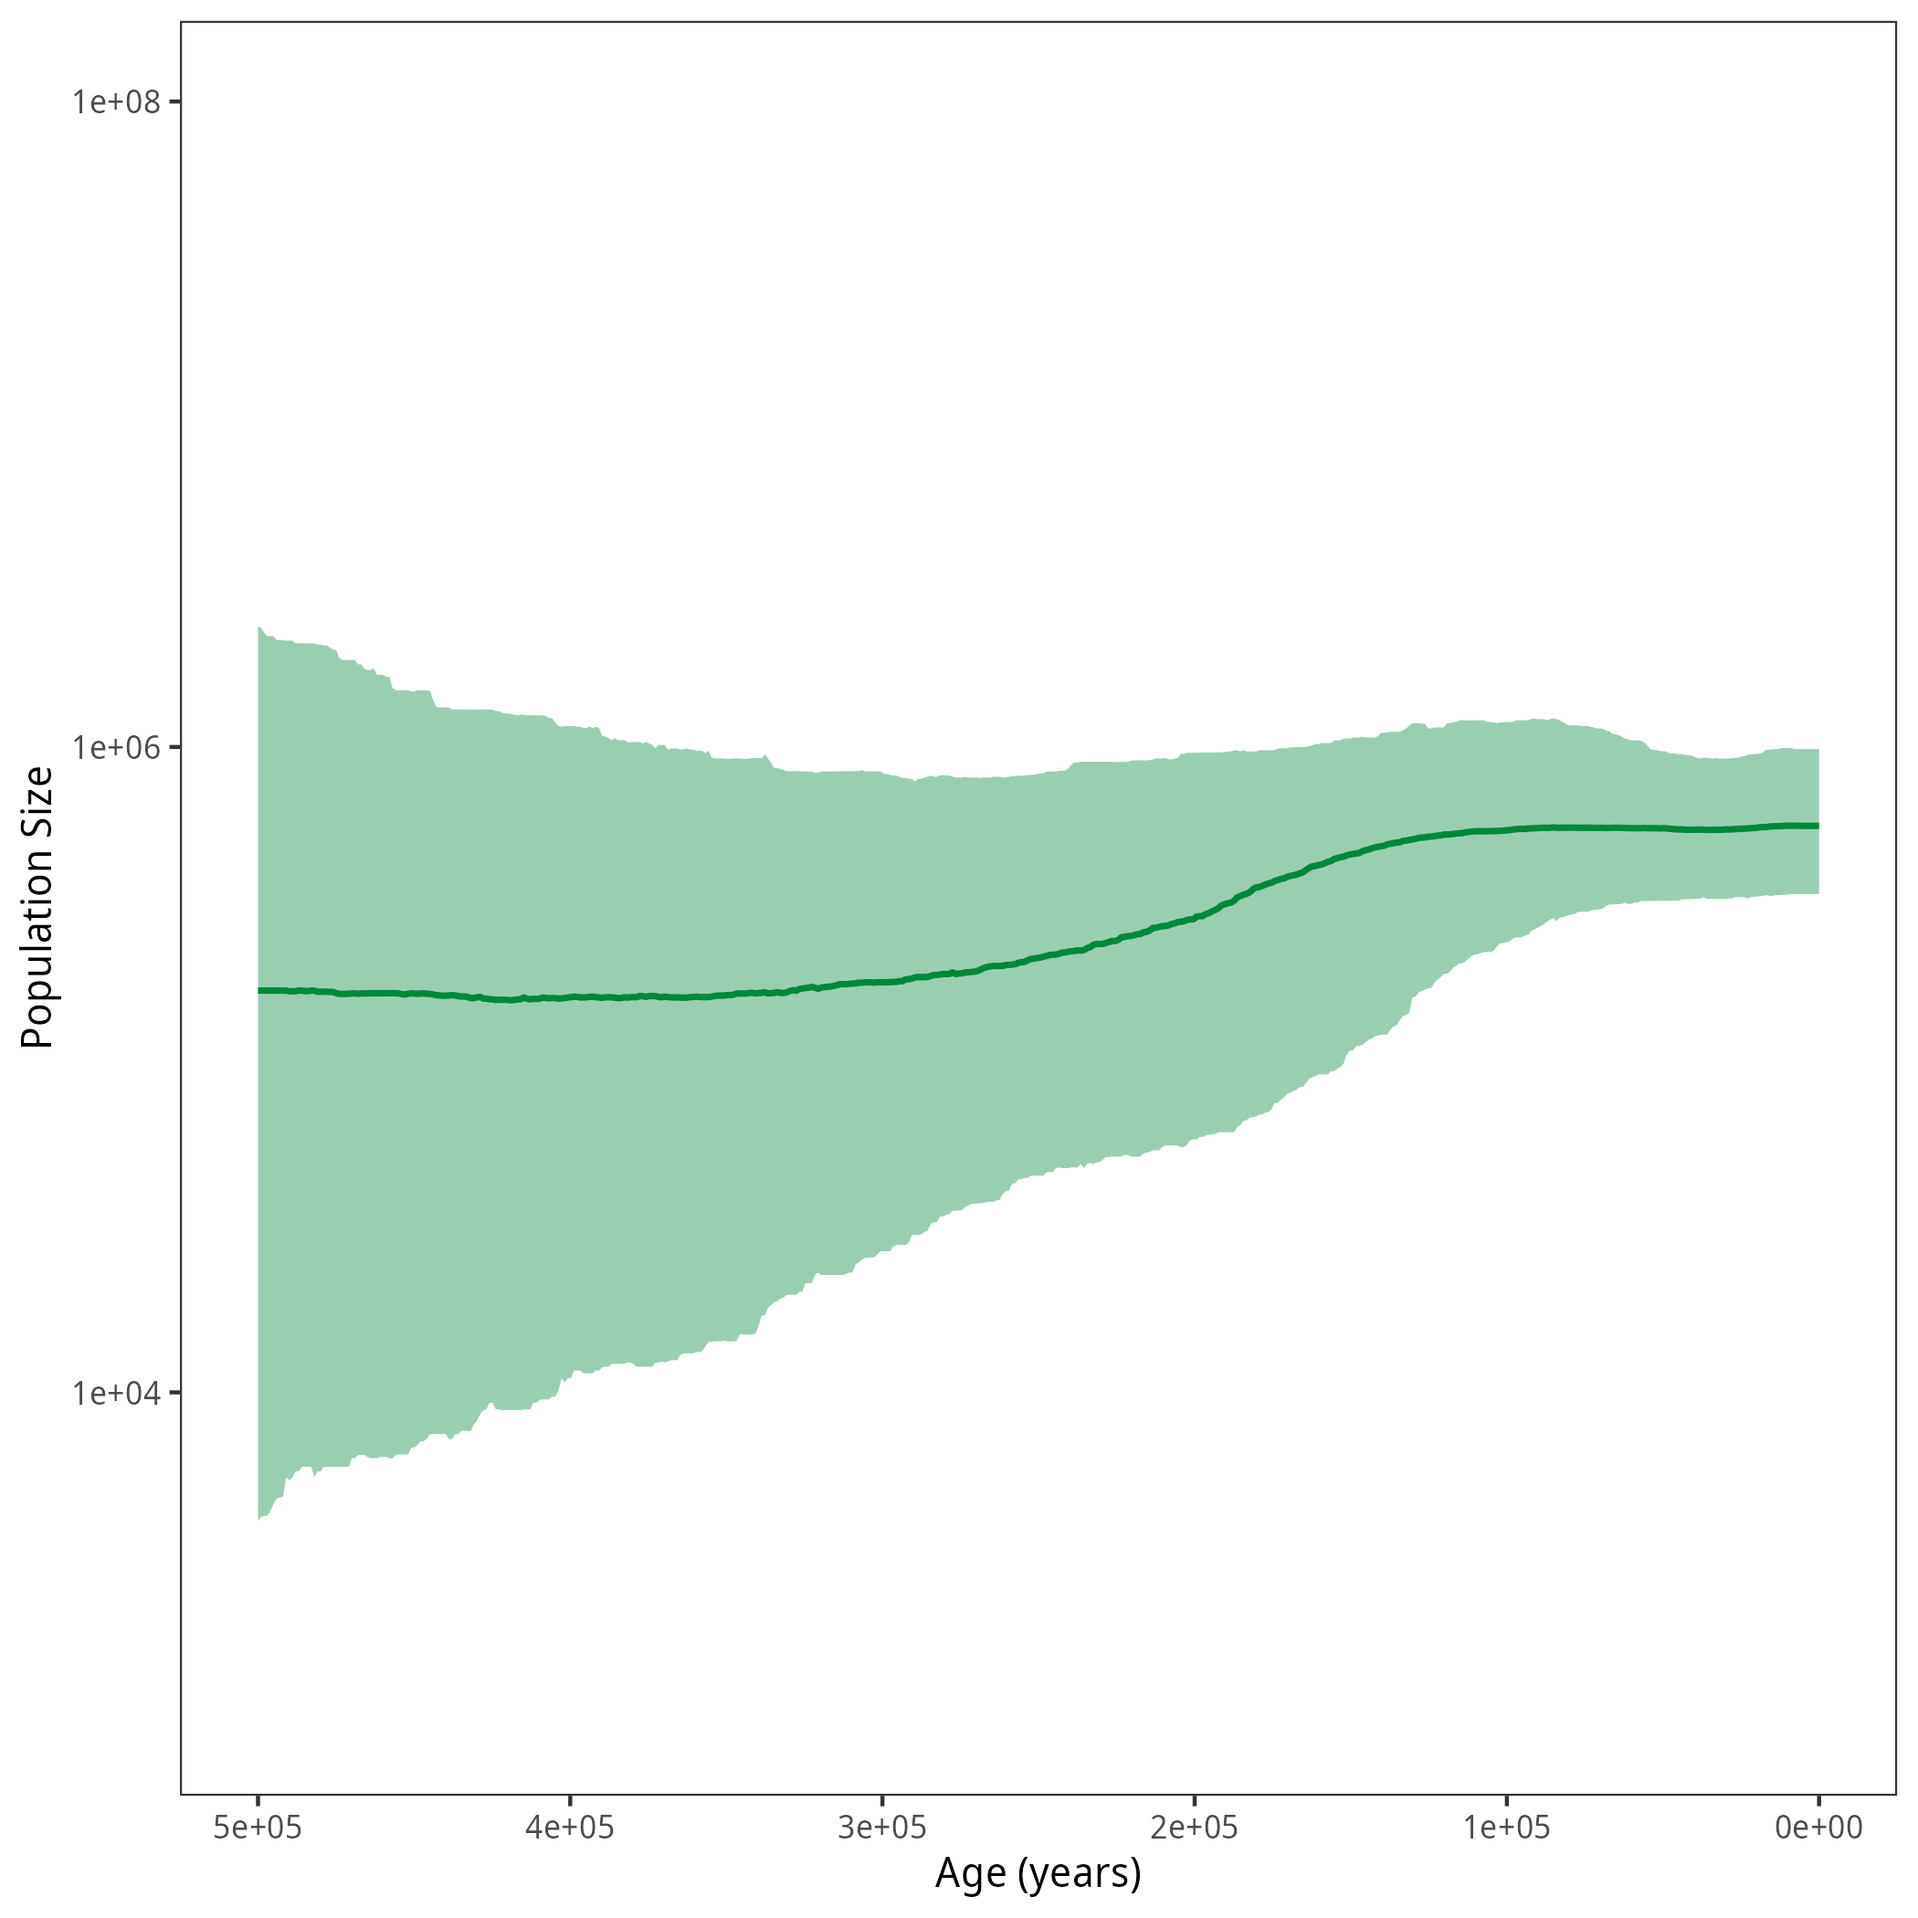
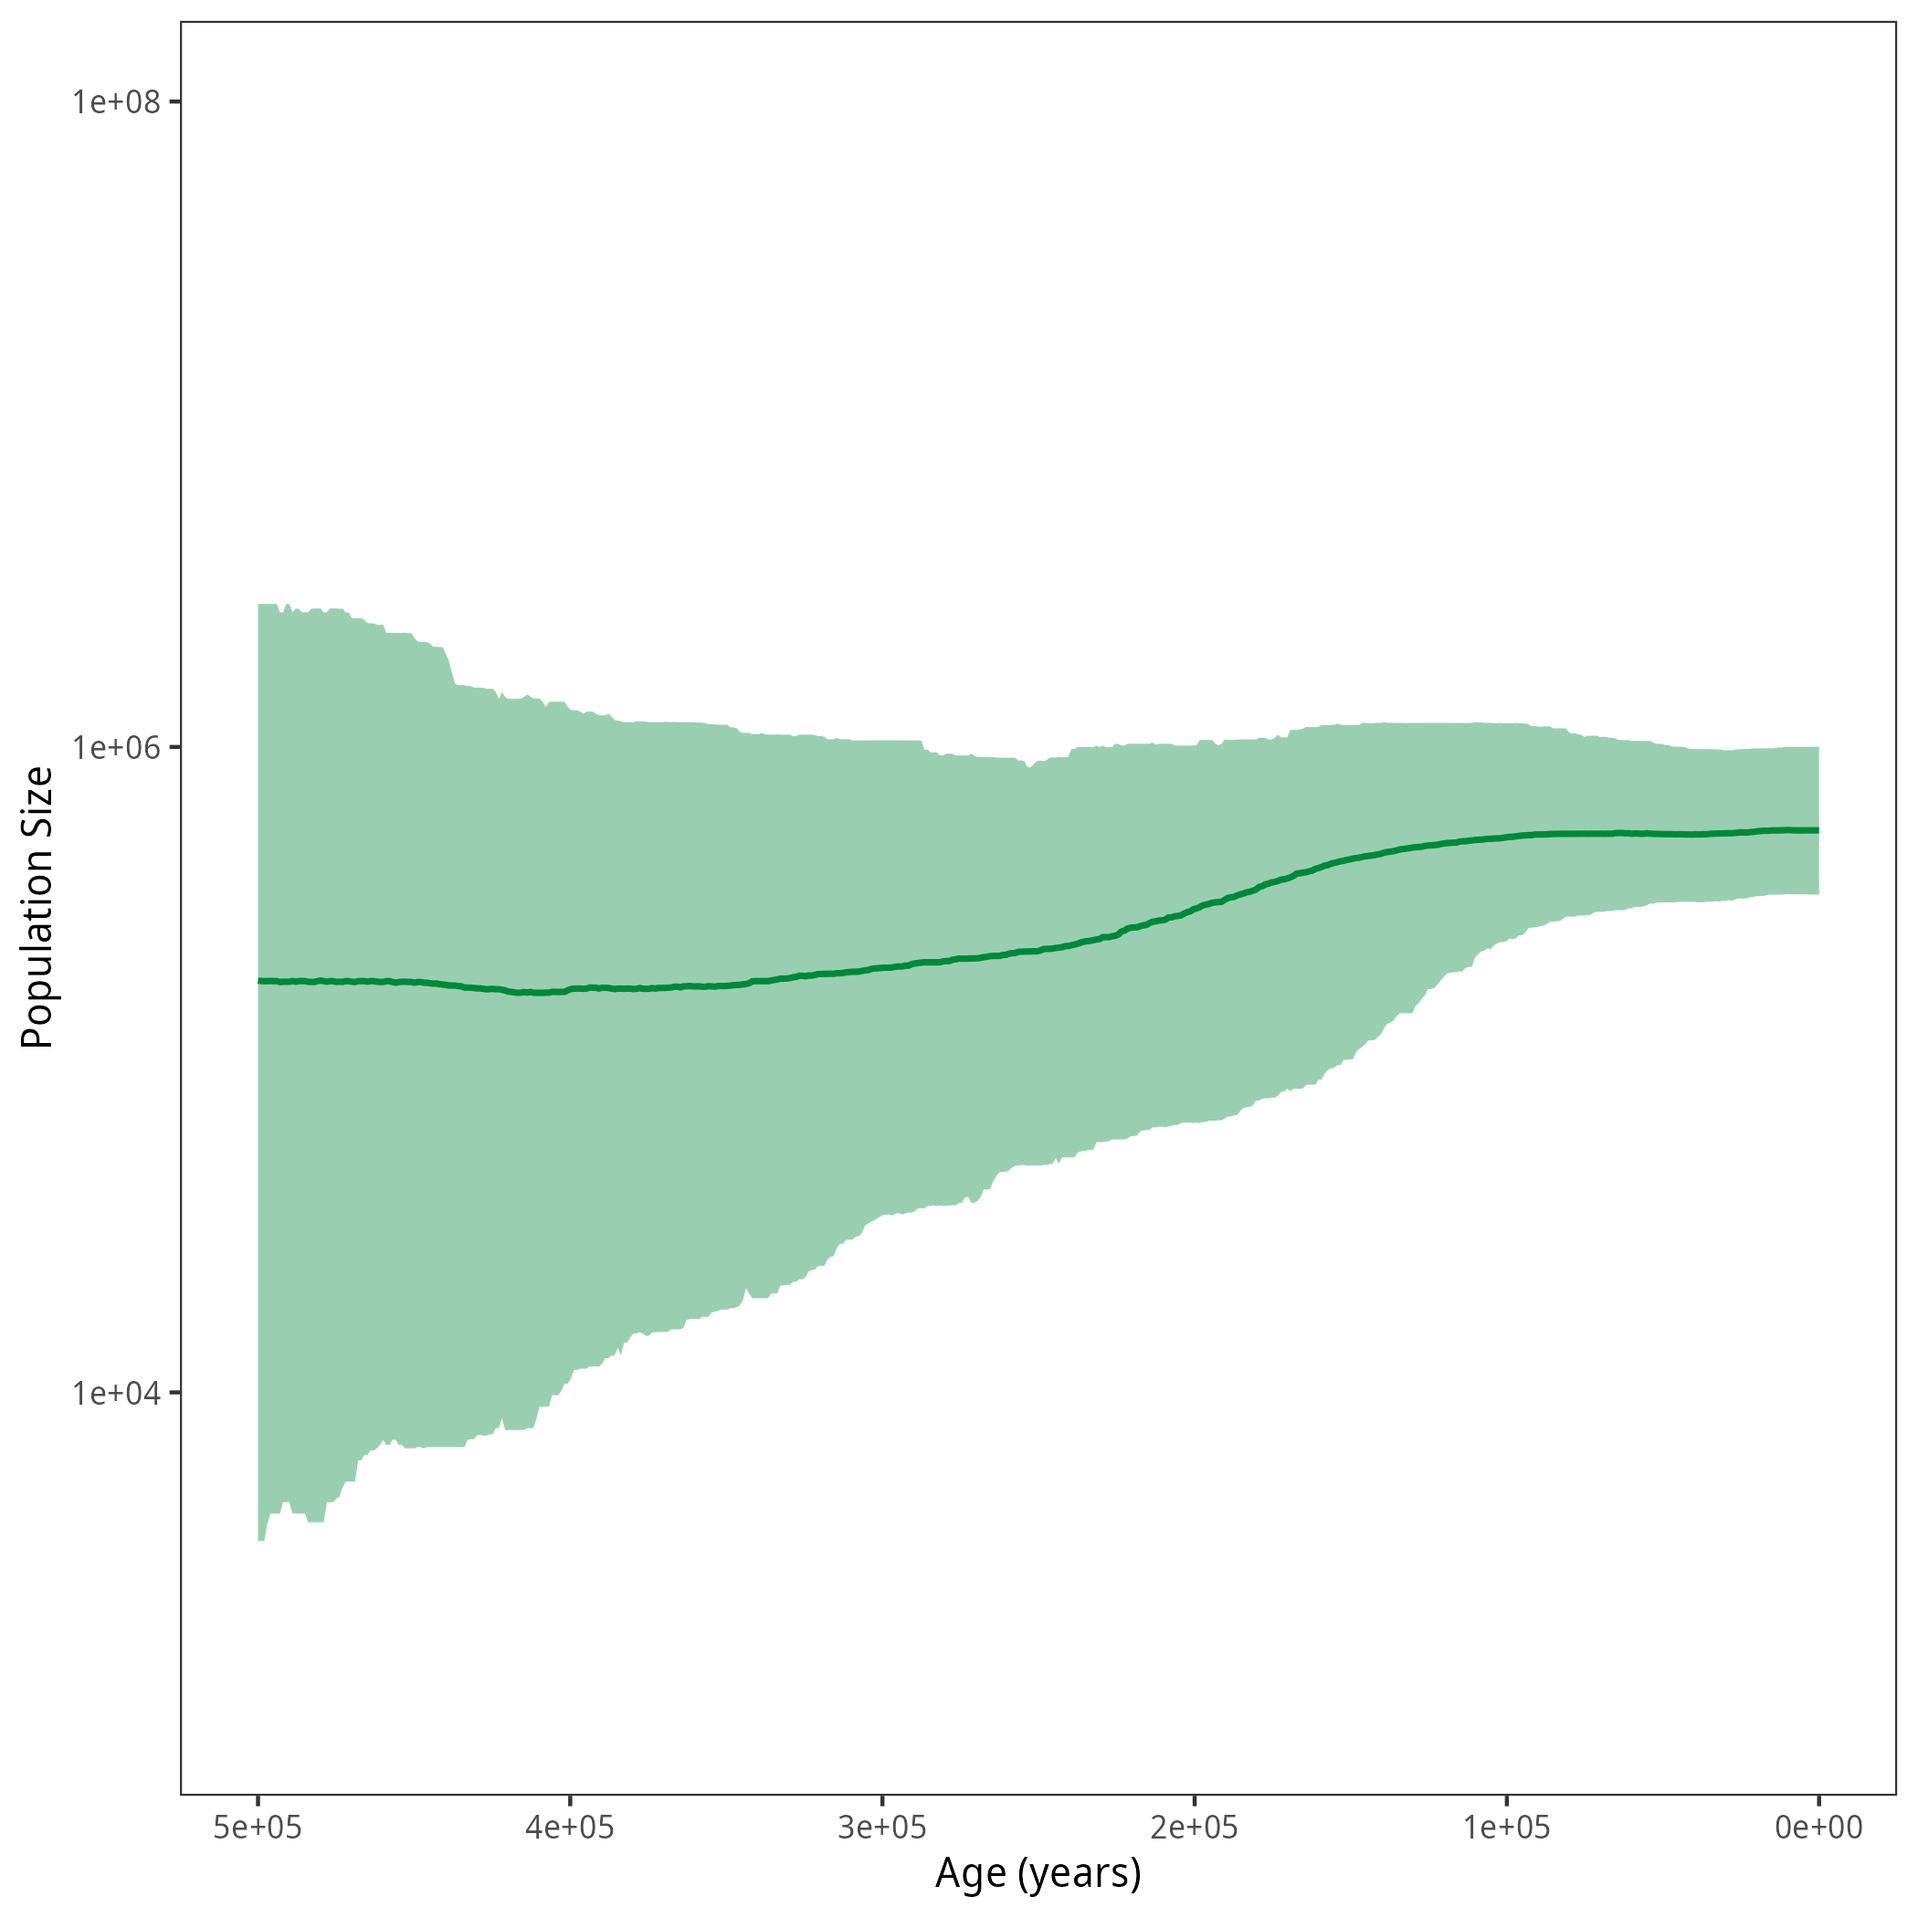
minor update coalescent tutorial

diff --git a/tutorials/coalescent/Skyfish.md b/tutorials/coalescent/Skyfish.md
@@ -125,7 +125,7 @@ In our example, we realized that it is difficult to find a starting tree with th
 We just set the *maximum a posteriori* (MAP) tree of the analysis with the Constant model as our starting tree.
 ~~~
 trees = readTreeTrace("output/horses_iso_Constant.trees", treetype = "clock", burnin = 0.1)
-maptree = mapTree(trace=trees)
+maptree = mapTree(trace=trees, conditionalAges=TRUE)
 psi.setValue( maptree )
 
 root_age := psi.rootAge()

diff --git a/tutorials/coalescent/GMRF_treebased.md b/tutorials/coalescent/GMRF_treebased.md
@@ -94,7 +94,7 @@ In this case, you can read it in with `readTrees`.
 Here, we first generate the maximum a posteriori (MAP) tree from the tree sample.
 ~~~
 trees = readTreeTrace("output/horses_iso_Constant.trees", treetype = "clock", burnin = 0.1)
-maptree = mapTree(trace=trees)
+maptree = mapTree(trace=trees, conditionalAges=TRUE)
 taxa <- maptree.taxa()
 ~~~
 The remaining part of the script is similar to having a tree sample.
